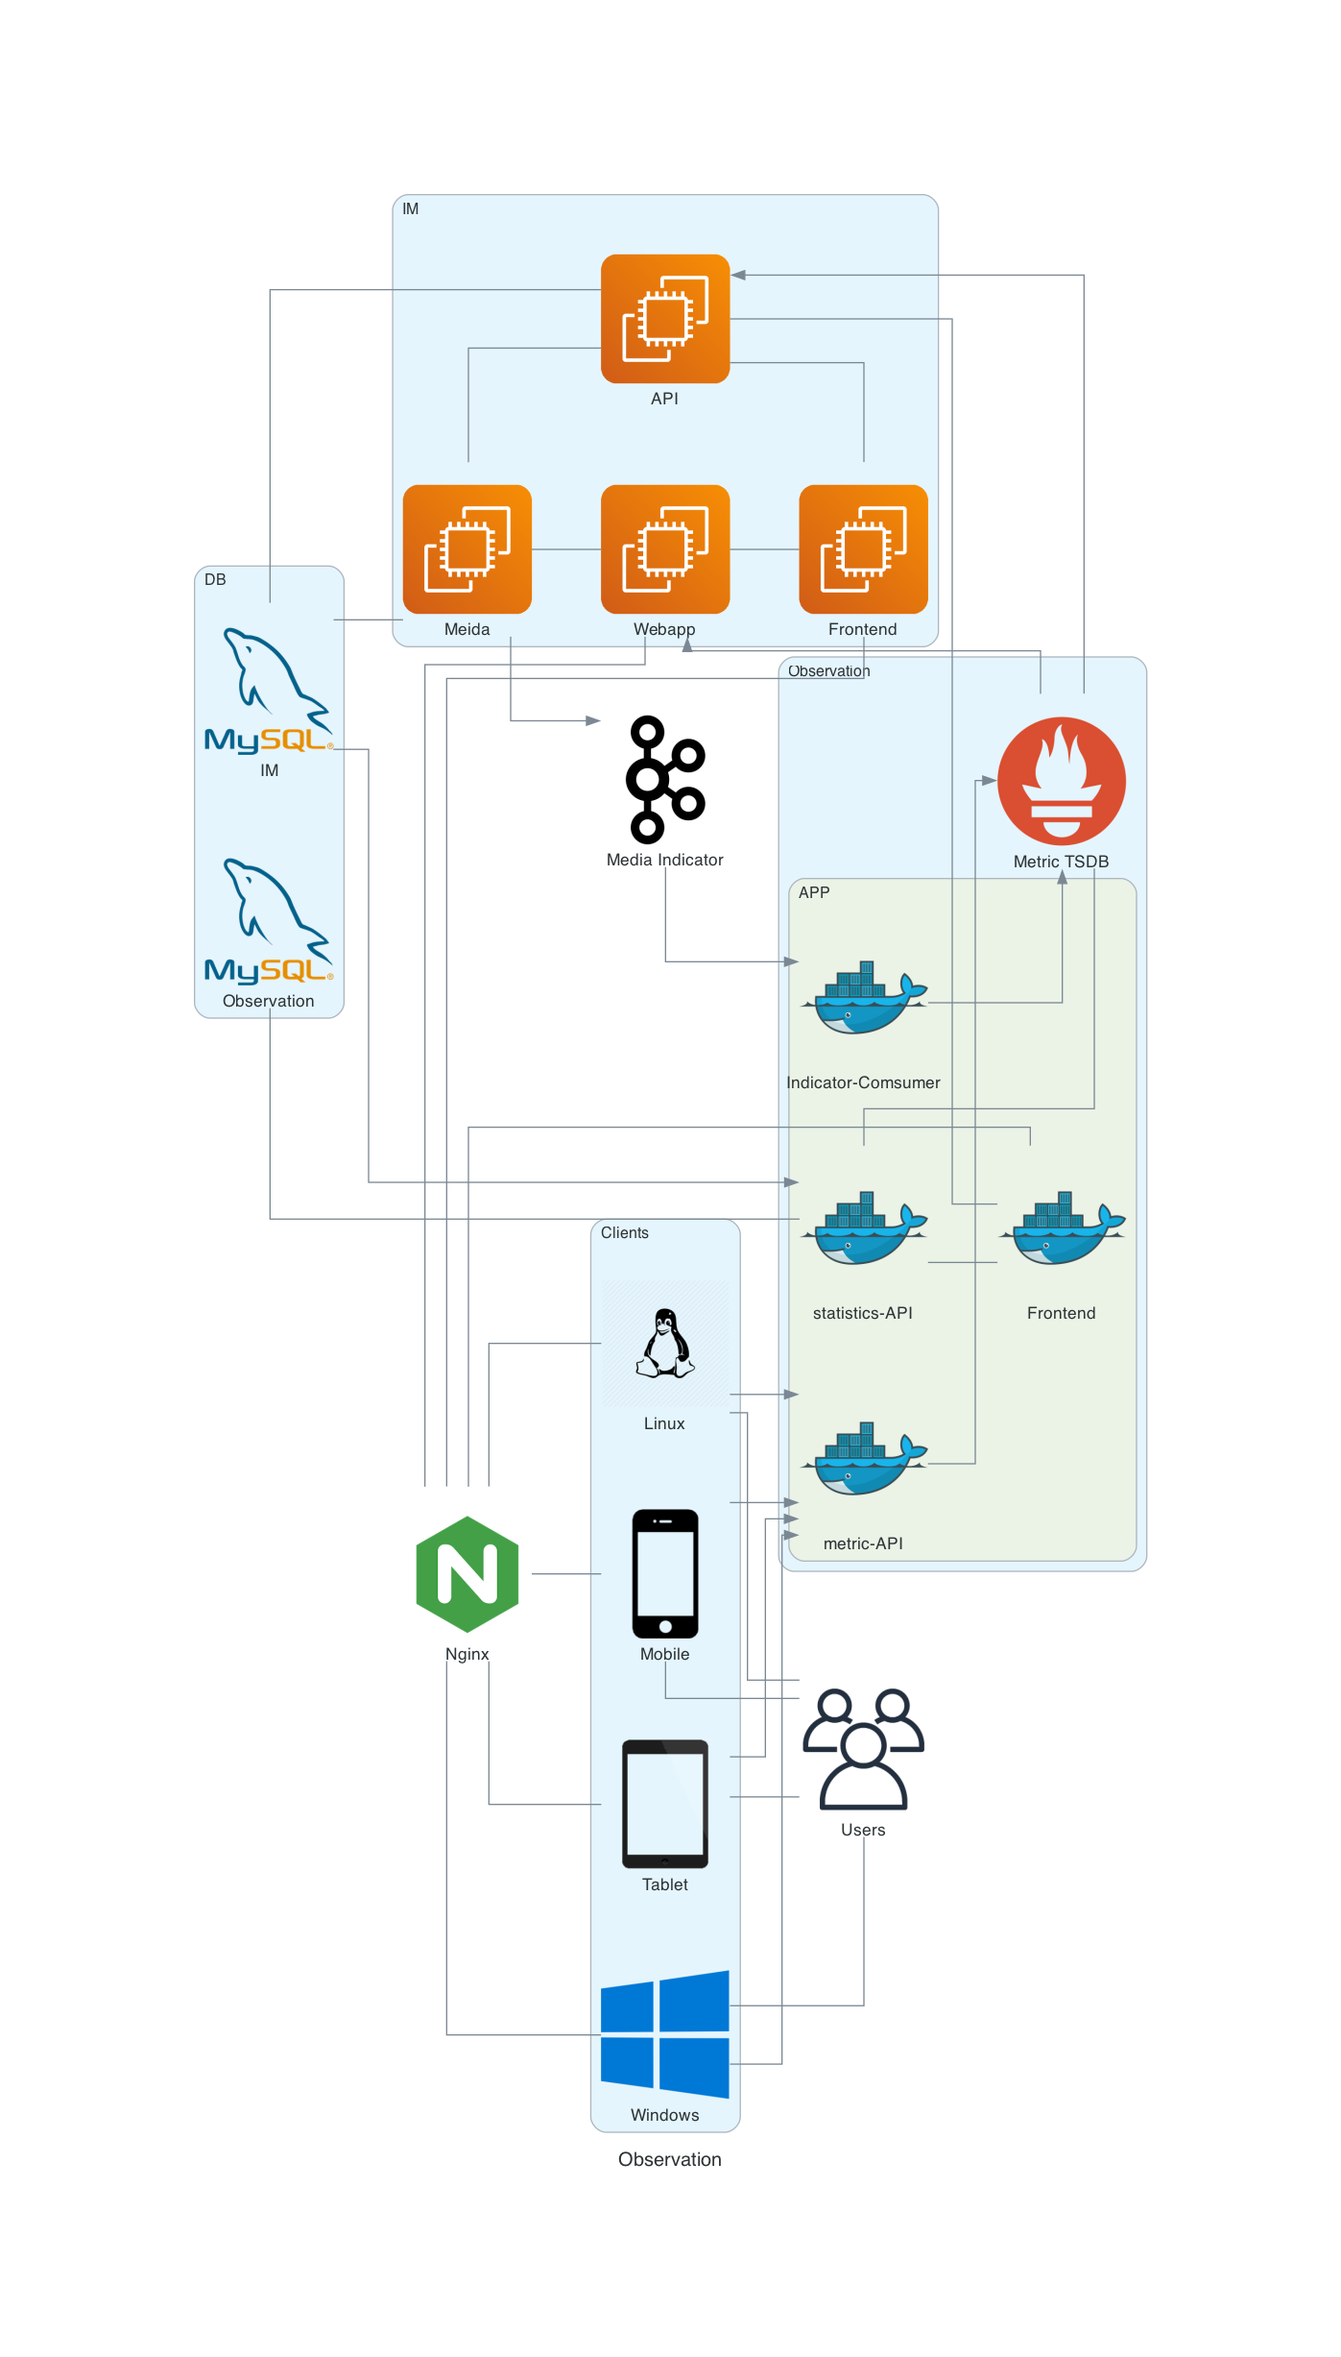
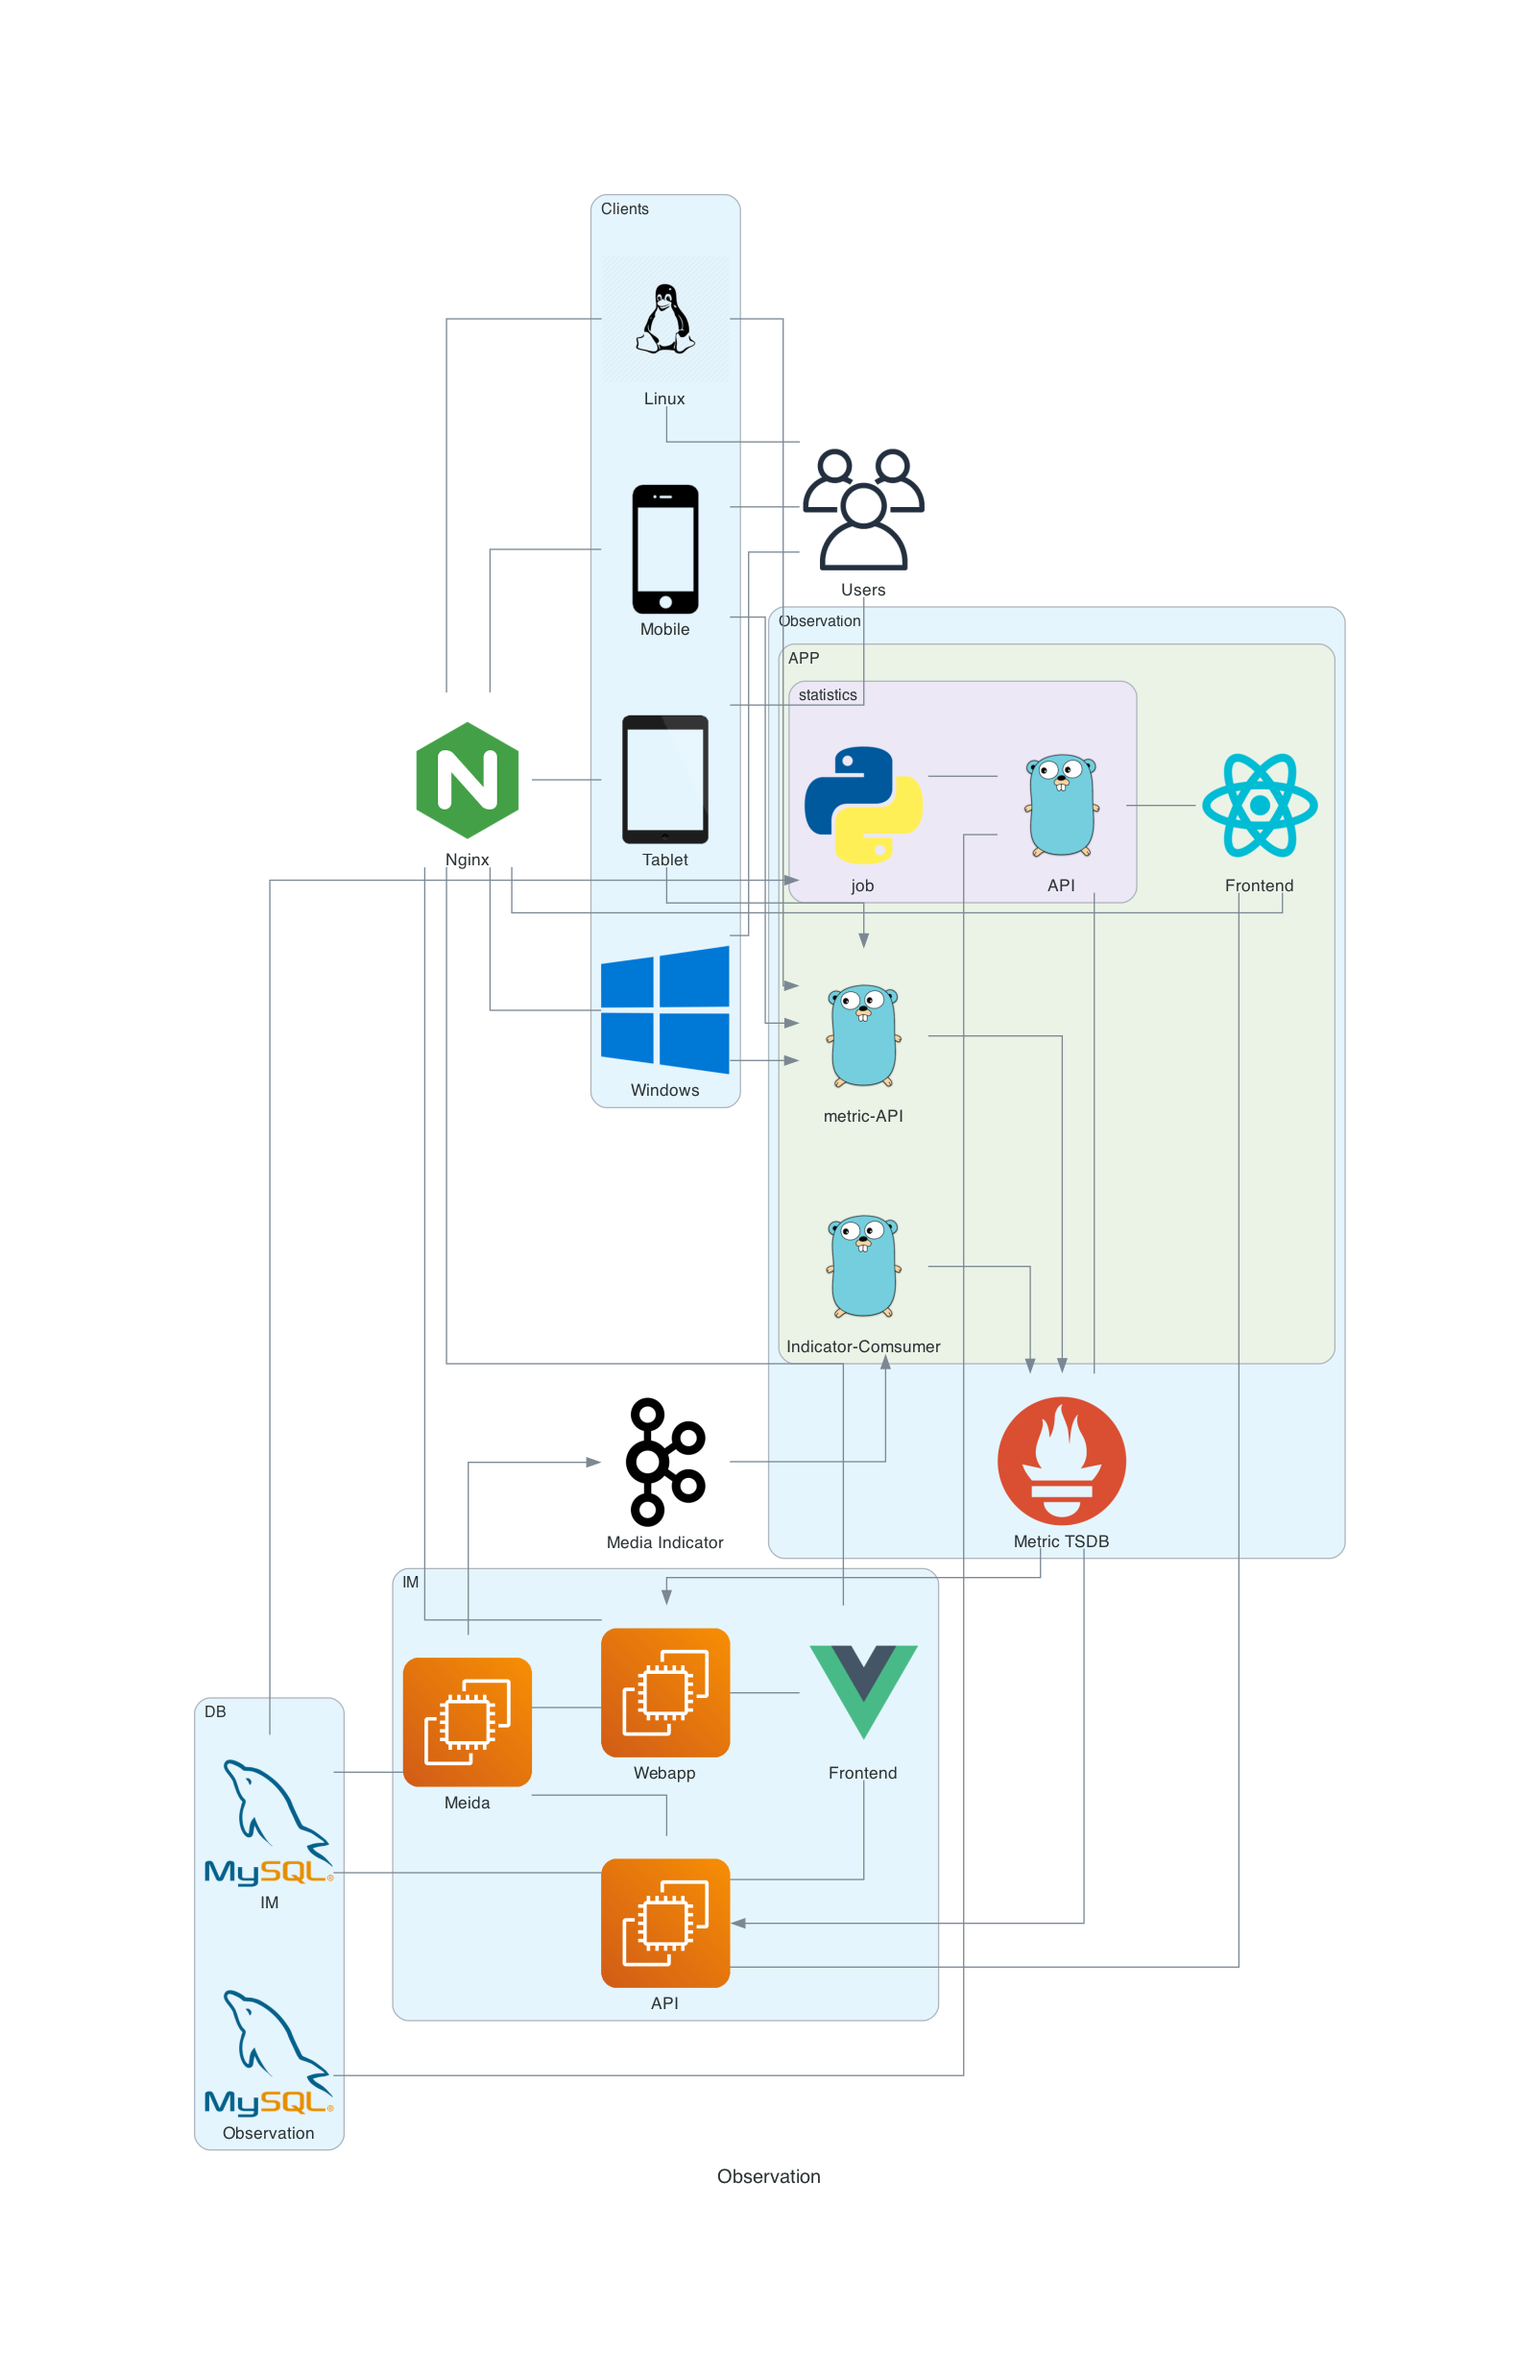
feat: stack details

Changed region(s): [[0.1231, 0.0619, 0.8926, 0.9291], [0.3078, 0.4955, 0.3386, 0.5265]]

diff --git a/docs/diagrams/mvp.py b/docs/diagrams/mvp.py
@@ -16,6 +16,11 @@ from diagrams.generic.device import Tablet
 from diagrams.generic.os import Windows
 from diagrams.generic.os import LinuxGeneral
 
+from diagrams.programming.language import Go
+from diagrams.programming.language import Python
+from diagrams.programming.framework import React
+from diagrams.programming.framework import Vue
+
 
 with Diagram("Observation"):
     
@@ -24,7 +29,7 @@ with Diagram("Observation"):
         im_api = EC2("API")
         im_media = EC2("Meida")
         im_webapp = EC2("Webapp")
-        im_front = EC2("Frontend")
+        im_front = Vue("Frontend")
         
     with Cluster("DB"):
         im_db = MySQL("IM")
@@ -35,10 +40,12 @@ with Diagram("Observation"):
     with Cluster("Observation"):
         prom = Prometheus("Metric TSDB")
         with Cluster("APP"):
-            ob_statistics_api = Docker("statistics-API")
-            ob_metric_api = Docker("metric-API")
-            ob_front = Docker("Frontend")
-            ob_mic = Docker("Indicator-Comsumer")
+            ob_front = React("Frontend")
+            ob_metric_api = Go("metric-API")
+            ob_mic = Go("Indicator-Comsumer")
+            with Cluster("statistics"):
+                ob_statistics_job = Python("job")
+                ob_statistics_api = Go("API")
     
     nginx = Nginx("Nginx")
     users = Users("Users")
@@ -61,9 +68,10 @@ with Diagram("Observation"):
     im_db - im_media
     im_db - im_api
     
-    im_db >> ob_statistics_api
-    ob_db - ob_statistics_api
+    im_db >> ob_statistics_job
     prom - ob_statistics_api
+    ob_statistics_job - ob_statistics_api
+    ob_db - ob_statistics_api
     
     im_api - ob_front
     ob_statistics_api - ob_front
